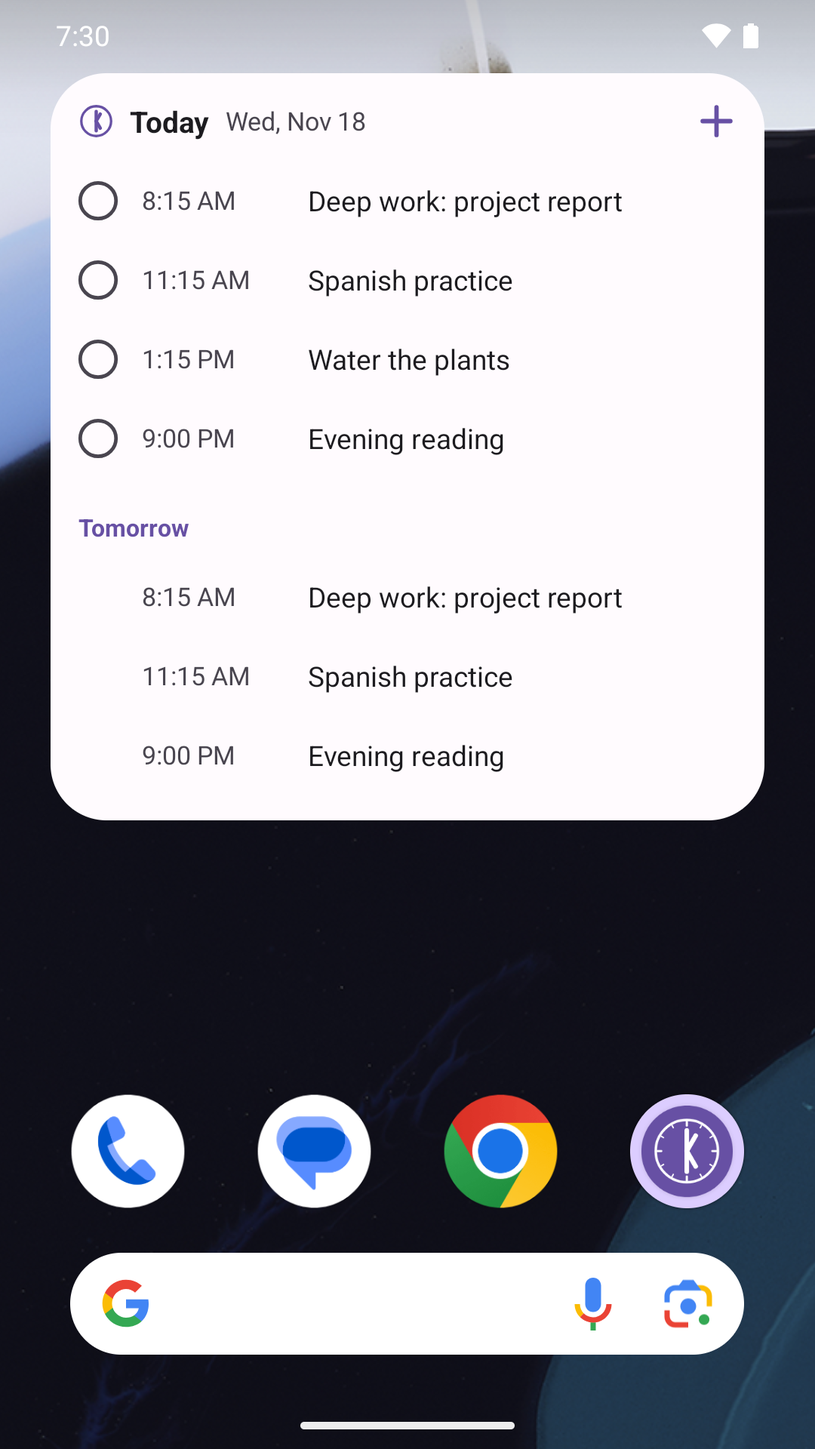
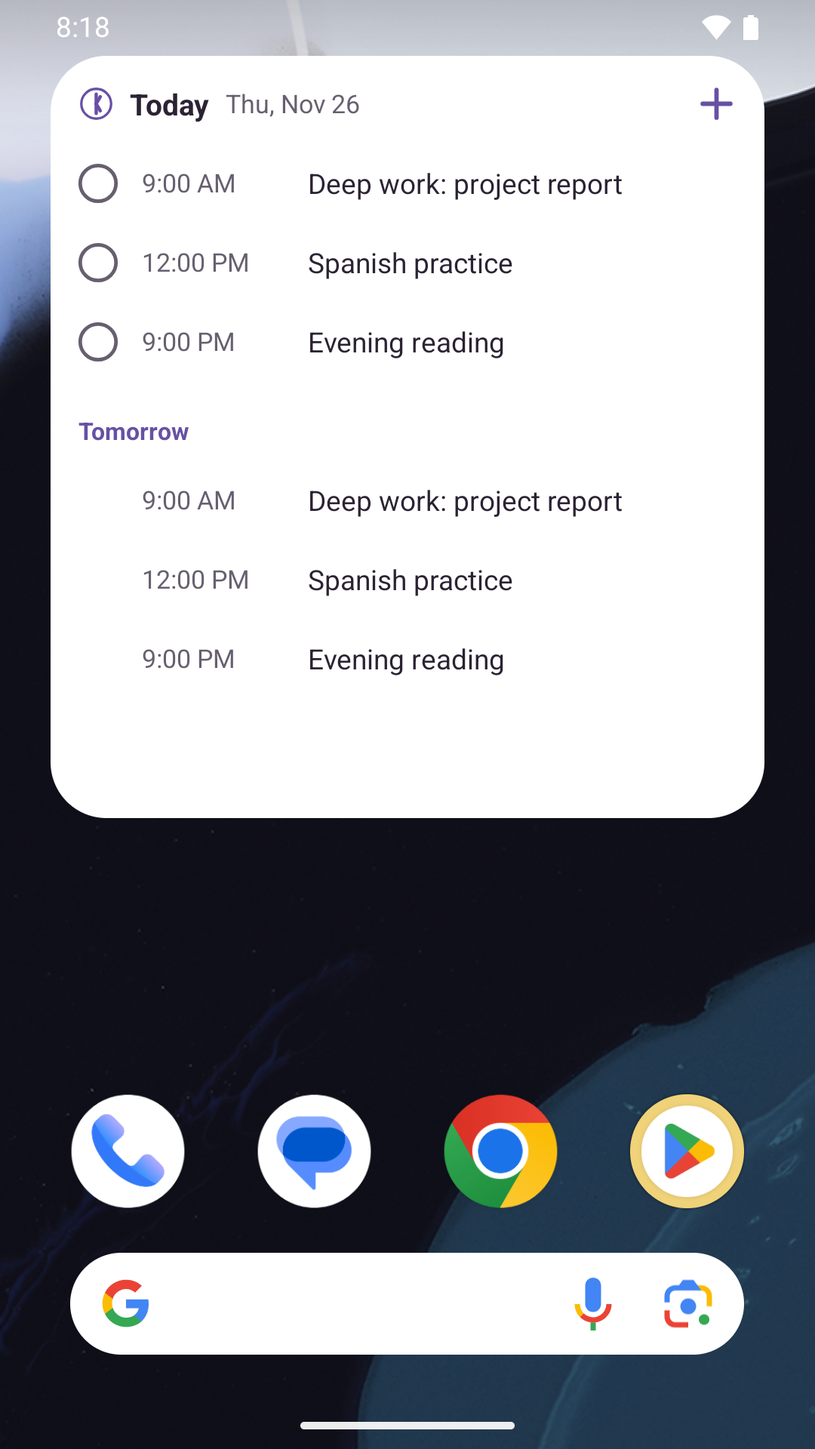
The stores' screenshots with the new look, in English, French and Spanish; the Microsoft Store's package declares Spanish
Google Play's eight phone pictures and the Microsoft Store's seven desktop ones, retaken for 1.3.0 and taken for
the first time in Spanish: 45 pictures. Three languages, not four: neither store has Kreyòl in its list.

- Play's set gains the question "How should reminders reach you?" (this version's sounds) and loses the todo's own
  page, which the Microsoft set keeps. Its reminder is caught as it rings over Home, with its buttons.
- Home shows a day with one todo done and the focus session is six minutes in, so both rings show progress.
- The Microsoft Store's Settings picture shows the four languages and the sounds.
- The Store's package names Spanish (es-419, as Play's listing does) beside English and French; a test holds the
  three, and that Kreyòl stays out (a code outside the Store's list can fail certification).
- How the pictures are taken, in the evening too, is in the two store READMEs; the owner's steps to upload them are
  in OWNER-CHECKLIST → v1.3.0, with the second test's result (deployed and tested by the owner on 2026-11-25).

diff --git a/tools/release/test_msix.py b/tools/release/test_msix.py
@@ -28,6 +28,11 @@ class MsixTests(unittest.TestCase):
         # The startup task starts the launcher that passes --background.
         self.assertIn('Executable="KadansBackground.exe"', text)
 
+    def test_the_package_names_the_languages_the_store_lists_it_in(self):
+        resources = xml.dom.minidom.parseString(msix.manifest("1.1.0")).getElementsByTagName("Resource")
+        # English first (the default); never "ht": the Store's list has no Kreyòl, and refuses a code outside it.
+        self.assertEqual(["en-us", "fr-fr", "es-419"], [r.getAttribute("Language") for r in resources])
+
     def test_every_logo_the_manifest_names_is_drawn(self):
         text = msix.manifest("1.1.0")
         self.assertEqual(["Square150x150Logo", "Square44x44Logo", "StoreLogo"], msix.named_logos(text))

diff --git a/docs/OWNER-CHECKLIST.md b/docs/OWNER-CHECKLIST.md
@@ -314,8 +314,9 @@ Both:
 - [ ] Play Console, once the version with Spanish is on the track (not before: the listing would promise a language
       the app does not have): Grow → Store presence → Main store listing → Manage translations → add **Spanish
       (Latin America) – es-419**, with the title, the short and the full description of `store/play/es-419/`; and
-      paste the English and French full descriptions again (their last lines name four languages). No Spanish
-      screenshots yet: Play shows the English ones. That release's notes need a Spanish "What's new" too.
+      paste the English and French full descriptions again (their last lines name four languages). Its eight
+      screenshots are in `store/play/es-419/images/phoneScreenshots/` (taken 2026-11-25). That release's notes need
+      a Spanish "What's new" too (`store/play/es-419/changelogs/5.txt`).
 
 ## The new look (2026-11-24)
 
@@ -335,8 +336,8 @@ size and at a computer's; nobody has looked at it on your computer or on a real 
       home-screen widget, whose colours changed with the app's (I did not see it on a home screen).
 - [ ] Windows: the same look at the installed app when the next version is out, the tray's menu included (it takes
       the app's colours). The fonts are the app's own files, so they should be the same as on Linux; nobody checked.
-- [ ] The stores' screenshots still show the old look. When you are happy with the new one, tell me and I retake
-      them (Play in four languages, the Microsoft Store's seven) for the next version's release.
+- [x] (2026-11-25) The stores' screenshots show the new look: Play's eight and the Microsoft Store's seven, each in
+      English, French and Spanish (neither store lists Kreyòl). Uploading them is in v1.3.0's entry, below.
 
 ## Sounds (2026-11-24)
 
@@ -379,14 +380,17 @@ What you chose: the marimba, reminders like an alarm (asked once, with a switch)
          nginx made again for the `/es/` addresses). The fixes change the server too (a session's notices go to the
          phone as data): **merge this version's pull request and deploy again before testing code 5**, or its phase
          notices are still the ones the system shows, which ring once and not at all at "back to focus".
+         Done 2026-11-25: merged, and deployed by you.
       2. **Android, by Play's internal testing track**: the bundle built from this version's branch with
          `-Pkadans.versionCode=5` (DEPLOYMENT → Building the apps). Test and release → Testing → Internal testing →
          Create new release → upload it → release notes from `store/play/<language>/changelogs/5.txt` (English and
          French; Spanish once its listing exists: Spanish, above) → Save → Review → Start rollout. On the phone:
          uninstall any copy installed with adb first (it is signed with another key and Play will not replace it),
          then install from Play. Not with adb for this one: on 2026-11-24 a debug build could not sign in with
-         Google (Google Sign-In, above), and Play's copy can.
-      3. **What to hear and see**: Sounds and The new look, above, and what the first test found:
+         Google (Google Sign-In, above), and Play's copy can. Done 2026-11-25: code 5 is on the internal track.
+      3. **What to hear and see**: Sounds and The new look, above, and what the first test found. Tested by you
+         on 2026-11-25, from Play's internal track on your phone: "I'm very satisfied with the tests" (said of the
+         whole; the points below were not gone through one by one with me, so their boxes stay as they were):
          - [ ] Settings → Reminder sound: the button reads "Change the sound", whole.
          - [ ] With "Keep ringing until I answer" on, a hands-free session: each phase change rings, the first break
                to the second focus too (with "Do Not Disturb during focus" on), and goes on ringing until the
@@ -400,12 +404,29 @@ What you chose: the marimba, reminders like an alarm (asked once, with a switch)
                the push, a moment later.
          - [x] (decided 2026-11-25: "Yes, a phase end should ring") With the phone's **own** Do Not Disturb on, a
                phase's end rings where alarms are let through (the default), as a timer's would.
-      4. **Satisfied**: `git tag v1.3.0 && git push origin v1.3.0` on the merged `main`
+      4. **Satisfied** (2026-11-25, and "You can tag"): `git tag v1.3.0 && git push origin v1.3.0` on the merged
+         `main`, **once the store pictures' pull request is merged** (the Store's package declares Spanish from
+         it; tagged before, 1.3.0's `.msix` would not)
          (DEPLOYMENT → Releasing the desktop app: the Linux and Windows installers, about 20 minutes), a new Partner
          Center submission with that release's `.msix`, and the same Play bundle **promoted** to the closed test
          (never uploaded again: Play takes a version code once). A fix found while testing is a new bundle with
          the next code.
-      5. **After it**: the stores' screenshots with the new look, and the Spanish listing on Play.
+      5. **The stores' pictures and Spanish** (the pictures were retaken on 2026-11-25, with the new look; upload
+         them with this version, not before: they show what 1.3.0 looks like). Neither store has Kreyòl in its list
+         of languages, so each gets three sets: English, French, Spanish.
+         - [ ] Play Console → Grow → Store presence → Main store listing: replace the eight phone screenshots with
+               `store/play/en-US/images/phoneScreenshots/` (delete the old ones first, upload in the files' order);
+               Manage translations → French: the same from `fr-FR`; → add **Spanish (Latin America) – es-419**
+               (Spanish, above: its texts and its eight from `es-419`). The fourth picture is new: the question "How
+               should reminders reach you?". The todo's own page left the set to make room for it; tell me if you
+               would rather drop another.
+         - [ ] Partner Center → the new submission → Store listings: English and French get the seven of
+               `store/microsoft/en-US/screenshots/` and `fr-FR`; **Spanish (Latin America)** is offered once the
+               submission's package is 1.3.0's (its package is the first to declare Spanish): give it the texts of
+               `store/play/es-419/` and the seven of `store/microsoft/es-419/screenshots/`. If Partner Center does
+               not offer Spanish after the package is uploaded, tell me what its Store listings page shows.
+         - [ ] Look at the pictures before uploading: I chose what each shows, and a Spanish speaker has not read
+               the Spanish ones.
 - [ ] v1.2.0 (prepared 2026-11-17): November's six integrations (the calendar link, the home-screen widget, Do Not
       Disturb during focus, Share to Kadans, the phone's calendar, statements in and data out) and the sealed session.
       Test it before tagging, in this order:
@@ -442,10 +463,10 @@ What you chose: the marimba, reminders like an alarm (asked once, with a switch)
       `kadans-microsoft-store-x64.msix` from the GitHub Release (DEPLOYMENT → Releasing the desktop app); before the
       first release, from the release workflow's run on a pull request (Actions → the run → Artifacts → `windows`).
       Partner Center asks why the package needs `runFullTrust`: "Kadans is a desktop app (Java, Compose) packaged as
-      MSIX; it runs its own desktop executable." The package declares English and French: give the Store listing
-      both (the texts of `store/play/en-US` and `fr-FR` fit, and the desktop screenshots are in
-      `store/microsoft/<language>/screenshots/`; Store logos → 1:1 App tile icon is `store/microsoft/app-tile-icon.png`,
-      the same for both: store/microsoft/README.md). The Store installs and updates it, signed by Microsoft,
+      MSIX; it runs its own desktop executable." The package declares English and French, and from 1.3.0 Spanish
+      (Latin America): give the Store listing each (the texts of `store/play/en-US`, `fr-FR` and `es-419` fit, and
+      the desktop screenshots are in `store/microsoft/<language>/screenshots/`; Store logos → 1:1 App tile icon is
+      `store/microsoft/app-tile-icon.png`, the same for all: store/microsoft/README.md). The Store has no Kreyòl. The Store installs and updates it, signed by Microsoft,
       so Windows shows no unknown-publisher warning; the `.msi` from the site still does, until it is signed with a
       code-signing certificate (optional).
 - [ ] Google Play / App Store developer accounts when it is time to ship
@@ -453,11 +474,11 @@ What you chose: the marimba, reminders like an alarm (asked once, with a switch)
       default, French under "Manage translations", Kreyòl when Play offers it: store/play/README.md), the app icon
       is `branding/play-store-icon.png` (512 x 512, the logo: branding/README.md) and the feature graphic
       `branding/play-feature-graphic.png` (1024 x 500, no text: Play writes the name beside it). Phone screenshots:
-      `store/play/en-US/images/phoneScreenshots/` for the main listing and `store/play/fr-FR/images/phoneScreenshots/`
-      for the French translation, eight each, uploaded in their order (a language without its own set shows the
-      English one). To take a set again (two to eight): register a demo account per language in the app, fill it
-      with
-      `python3 tools/demo/seed_demo.py <username> --language en|fr|ht` (it refuses an account with data), take the
+      `store/play/en-US/images/phoneScreenshots/` for the main listing, `store/play/fr-FR/images/phoneScreenshots/`
+      for the French translation and `store/play/es-419/images/phoneScreenshots/` for the Spanish one, eight each,
+      uploaded in their order (a language without its own set shows the English one). To take a set again (two to
+      eight): register a demo account per language in the app, fill it with
+      `python3 tools/demo/seed_demo.py <username> --language en|fr|ht|es` (it refuses an account with data), take the
       screenshots on the phone within a few hours (today's todos are on Home), then
       `python3 tools/store/play.py crop <files>` (Play refuses taller than 2:1; a 1080 x 2340 capture is). Run the
       script on `googleTest` too: Google's reviewers then find a lived-in account.

diff --git a/store/play/README.md b/store/play/README.md
@@ -12,9 +12,8 @@ like the rest. One folder per language, in fastlane's layout (`fastlane supply` 
 
 `en-US` is the default language; `fr-FR` and `es-419` (Spanish as Latin America writes it, Play's "Spanish (Latin
 America)") are added under "Manage translations". `ht` (Kreyòl) is ready for when Play Console offers Haitian Creole
-in its list; until then Play shows Kreyòl speakers the French or English listing. `es-419` has no changelog of the
-uploads made before the app spoke Spanish, and no screenshots yet: Play shows the English ones until a set is taken
-(`seed_demo.py --language es`).
+in its list (it did not on 2026-11-25); until then Play shows Kreyòl speakers the French or English listing, so `ht`
+has its texts and no screenshots. `es-419` has no changelog of the uploads made before the app spoke Spanish.
 
 ```bash
 python3 tools/store/play.py check                       # every text within the limits (CI runs it)
@@ -23,20 +22,34 @@ python3 tools/store/play.py crop ~/Pictures/Screenshot*.png   # screenshots trim
 
 The graphics: the icon `branding/play-store-icon.png` (512 x 512) and the feature graphic
 `branding/play-feature-graphic.png` (1024 x 500), both drawn by `branding/generate.py`. The screenshots (two to eight,
-phone, portrait) are in `<language>/images/phoneScreenshots/`, in the listing's order (fastlane sorts by name); Play
-shows a language without its own the default language's. They are taken in a demo account filled by
-`tools/demo/seed_demo.py` (its time zone chosen so today's todos are still ahead), on a phone or on the emulator
+phone, portrait) are in `<language>/images/phoneScreenshots/`, in the listing's order (fastlane sorts by name), one
+set for each language Play lists: English, French, Spanish. They are taken in a demo account filled by
+`tools/demo/seed_demo.py` (English and Spanish on a 12-hour clock, French on a 24-hour one), on the emulator
 (`adb shell wm size 1080x1920`, `wm density 420`, the status bar's demo mode for a clean clock), then passed through
 `play.py crop`: within 2:1 and 24-bit PNG without transparency, as Play wants. Retake them when a screen in them
 changes.
 
-The eight, as of 1.2: Home, the widget on a home screen, a reminder ringing with its buttons, a todo with its cycle,
-a focus session, the calendar, the budget month, its limits with "Import a statement". How the less obvious ones are
-made on the emulator: started with `-timezone America/Port-au-Prince` so the demo account's day is the phone's; the
-widget placed from Settings → "Add to my home screen", then made taller by its handles (a long press on it) so that
-it lists the day and tomorrow; the reminder from a one-time todo with a cycle created a minute or two ahead through
-the API while the app is open, the shade pulled down when it rings (`cmd statusbar expand-notifications`), the
-notification expanded, the emulator's own notices swiped away, and the demo clock set to the todo's time.
+The eight, as of 1.3 (2026-11-25, the new look): Home, the widget on a home screen, a reminder ringing with its
+buttons, the question "How should reminders reach you?" (like an alarm, like a notification), a focus session, the
+calendar, the budget month, its limits with the recurring salary and "Import a statement". The todo's own page left
+the set to make room for the sounds; the Microsoft Store's set has it. How they are made on the emulator:
+
+- **The day.** Home wants today's todos still ahead, and the script puts the first one 45 minutes from now. Taken in
+  the evening, the account and the phone are given a time zone where the day is starting (`seed_demo.py --time-zone
+  Asia/Dhaka`, the emulator started with `-timezone Asia/Dhaka`): nothing in the eight shows the zone. An account is
+  made and filled just before its pictures, one language at a time, each on an app wiped with `pm clear` (the
+  question about sounds is asked once per phone). One of the day's todos is marked done through the API, so the
+  ring on Home shows progress.
+- **The focus session** is six minutes in when it is taken (a quarter of the ring): started first, the calendar and
+  the budget are taken while it runs, then the todo's "Open focus session" leads back to it.
+- **The question about sounds** comes by itself the first time Home is seen again after a todo was opened.
+- **The widget** is placed from Settings → "Add to my home screen", then made taller by its handles (a long press on
+  it) so that it lists the day and tomorrow. It stays on the launcher from one language to the next and takes the
+  account's language.
+- **The reminder** is a one-time todo with a cycle created a minute or two ahead through the API while the app is on
+  Home, caught a second after it rings, as Android shows it over the app. The word beside its title ("now") is
+  Android's own: the emulator's system language is set to the listing's (`settings put system system_locales
+  fr-FR`, `es-US` for Spanish, then a restart), and the status bar's demo clock to the todo's time.
 
 The texts state what the app does today; change them with the app (and the website, `site/texts.py`, says the same
 things). The price and the trial follow OWNER-CHECKLIST → Subscriptions.

diff --git a/docs/ROADMAP.md b/docs/ROADMAP.md
@@ -1076,8 +1076,9 @@ installing on real devices second, hosting last.
       notifications' buttons in Spanish (their words are the catalog's), Windows, the iPhone.
       - [ ] By the owner: the points in OWNER-CHECKLIST → Spanish (a Spanish speaker's reading, Play's listing once
         the version is out, the website's deploy with nginx).
-      - [ ] With the new look's screenshots: a Spanish set for Play (`seed_demo.py --language es`), and Spanish in
-        the Microsoft Store's package and listing (its package declares English and French today).
+      - [x] With the new look's screenshots (2026-11-25, the item below): a Spanish set for Play, and Spanish in the
+        Microsoft Store's package (`es-419` in its manifest, from 1.3.0's package) with its seven pictures; the
+        listings themselves are the owner's to fill (OWNER-CHECKLIST → v1.3.0).
 
 - [x] The look (2026-11-24): the testers' second ask. Two directions on a design canvas, phone and computer; the
       owner took the warm one (ARCHITECTURE → "The look"): a cream page, white rounded cards, the logo's purple for
@@ -1100,8 +1101,7 @@ installing on real devices second, hosting last.
         server cannot be reached, with "Retry", instead of only leaving "Continue with Google" out.
       - [x] Sounds, from the same look and the testers: its own item, below.
       - [ ] By the owner: the rest of OWNER-CHECKLIST → The new look (a phone, the widget, Windows).
-      - [ ] After the owner's look: new screenshots for Play (four languages) and the Microsoft Store, taken with
-        `seed_demo.py` as the current ones were; the stores' pictures still show the old look.
+      - [x] New screenshots for both stores (2026-11-25): the item under version 1.3.0, below.
       - [ ] Not a new version by itself: it ships with Spanish in the next one.
 
 - [x] Sounds (2026-11-24): the testers forgot a running session and missed reminders, because nothing was
@@ -1134,8 +1134,30 @@ installing on real devices second, hosting last.
       OWNER-CHECKLIST → v1.3.0 has the order: the pull request, the deploy, the test, the tag, the stores. A debug build could
       not sign in with Google that day: the Android client for the debug key is gone from Google Cloud
       (OWNER-CHECKLIST → Google Sign-In), which concerns test builds only.
-      - [ ] After the release: the stores' screenshots with the new look (Play in four languages, the Microsoft
-        Store's seven) and Play's Spanish listing.
+      - [x] The stores' screenshots with the new look (2026-11-25, while the owner tested code 5): Play's eight
+        (`store/play/<language>/images/phoneScreenshots/`) and the Microsoft Store's seven
+        (`store/microsoft/<language>/screenshots/`), each in English, French and Spanish: 45 pictures. Three
+        languages, not four: neither store lists Kreyòl (read in both stores' own lists that day), so `ht` keeps its
+        texts for the day Play does. What changed beside the look:
+        - Play's set gains the question "How should reminders reach you?" (the sounds, this version's feature) and
+          loses the todo's own page, which the Microsoft set keeps; its reminder is caught as it rings over Home
+          with its buttons, instead of lying in the notification shade.
+        - Home shows a day with one todo done (the ring a quarter full) and the focus session is six minutes in,
+          where both were at their start.
+        - The Microsoft Store's Settings picture shows the four languages and the sounds, and its package declares
+          Spanish (`es-419`, Play's Latin American Spanish too) from 1.3.0: `tools/release/test_msix.py` holds the
+          three languages, and that `ht` stays out of the manifest (a code outside the Store's list can fail
+          certification).
+        - How they are taken in the evening (an account and a device in a time zone where the day is starting) is
+          in the two READMEs.
+        Seen while taking them, not changed (the bundle under test is built): French writes "Cycle: Classique" on
+        a todo's page where its typography wants "Cycle : Classique".
+        Not checked: a Spanish speaker's reading of the pictures; how Partner Center offers the Spanish listing
+        once the package declares it.
+      - [ ] By the owner: upload them with 1.3.0, and Play's Spanish listing (OWNER-CHECKLIST → v1.3.0, step 5).
+      - [x] The second test (2026-11-25): the owner deployed `main` with the fixes, updated to code 5 from Play's
+        internal track and tested on their phone: "I'm very satisfied with the tests". The tag `v1.3.0` follows the
+        merge of the store pictures' pull request, so that the Store's package declares Spanish.
 
 Nice-to-have hardening
 

diff --git a/store/microsoft/README.md b/store/microsoft/README.md
@@ -1,19 +1,29 @@
 # The Microsoft Store's listing
 
-What Partner Center → Kadans → a submission → Store listings asks for, per language (English, and French: the two
-languages the package declares, `clients/app/desktopApp/msix/AppxManifest.xml`):
+What Partner Center → Kadans → a submission → Store listings asks for, per language: English, French and Spanish
+(Latin America's, `es-419`, as on Google Play), the three languages the package declares
+(`clients/app/desktopApp/msix/AppxManifest.xml`; Spanish from the first package built after 2026-11-25, which is
+1.3.0's). The app speaks Kreyòl too, and the Store has no listing for it: `ht` is not in the Store's list of
+languages, and a package that names a code outside that list can fail certification (read on 2026-11-25:
+learn.microsoft.com, "App package requirements for MSIX app" → Supported languages). So the manifest leaves it out,
+and `tools/release/test_msix.py` holds the three.
 
 - **Description, What's new, Product features**: the Play texts fit (`store/play/<language>/full_description.txt`, the
-  changelog, the short description), since both stores sell the same app.
+  changelog, the short description), since both stores sell the same app; Spanish's are in `store/play/es-419/`.
 - **Screenshots** (Desktop): `<language>/screenshots/`, in the listing's order: Home, Home in dark mode, the calendar, a
-  todo with its focus cycle, a focus session, the budget month in dark mode, Settings in dark mode (three languages, 12 or
-  24 hours, appearance). 2732 x 1536 (a 1366 x 768 window drawn at twice the scale, so sharp on a large screen; the
-  Store asks for 1366 x 768 at least), 24-bit PNG.
+  todo with its focus cycle, a focus session, the budget month in dark mode, Settings in dark mode (the four languages,
+  12 or 24 hours, appearance, the time zone, sounds). 2732 x 1536 (a 1366 x 768 window drawn at twice the scale, so
+  sharp on a large screen; the Store asks for 1366 x 768 at least), 24-bit PNG.
 - **Store logos → 1:1 App tile icon**: `app-tile-icon.png` (300 x 300, the same in both languages), drawn by
   `branding/generate.py`. The Store shows it before the package's own StoreLogo. The 2:3 poster and 1:1 box art are
   for games (and Xbox), and Kadans is neither: leave them empty.
 
-The screenshots show the desktop app as it is, in a demo account filled by `tools/demo/seed_demo.py` (English on a 12-hour clock,
-French on a 24-hour one): the window's content alone, no system frame, which is what the Windows app shows too. They
-were drawn offscreen by Compose (`ImageComposeScene`, the real `App()` against a scratch server), so no desktop window
-or system theme was involved: retake them the same way when a screen in them changes.
+The screenshots show the desktop app as it is (retaken 2026-11-25 with the new look), in a demo account filled by
+`tools/demo/seed_demo.py` (English and Spanish on a 12-hour clock, French on a 24-hour one), one of the day's todos
+marked done so that Home's ring shows progress, the focus session six minutes in: the window's content alone, no
+system frame, which is what the Windows app shows too. They were drawn offscreen by Compose (`ImageComposeScene`, the
+real `App()` against a scratch server), so no desktop window or system theme was involved: retake them the same way
+when a screen in them changes. The app takes the computer's time zone, and the account follows it: taken in the
+evening, the Java process is given a zone where the day is starting (`-Duser.timezone=Asia/Dhaka`, the account
+seeded with the same), so that today's todos are still ahead; Settings, the one screen that names the zone, is drawn
+by a second run in the zone it should show.

diff --git a/docs/ARCHITECTURE.md b/docs/ARCHITECTURE.md
@@ -213,7 +213,7 @@ others are, and a missing one fails a build or a test. What a language touches:
 | Android | `res/values-<tag>`: what the system shows in the phone's language (the widget picker, the share sheet, the kind of the quiet mode) | compared by hand with `values-fr` |
 | Server | `RequestLanguage.Supported`; `ErrorTexts.Text` (a sentence for every entry); `LocalizedIdentityErrorDescriber`; `EmailTexts` and `DeletionTexts` (emails, the pages their links open); Tasks' `LocalizedTexts` (reminders, pomodoro notices); Budget's `BudgetTexts` (limit alerts) | `ErrorLocalizationTests`, `LocalizedIdentityErrorDescriberTests`; a `switch` without the language falls to English silently, so each has a test that names it |
 | Website | `site/texts.py`, `site/legal/*.<tag>.html`, and nginx's language map and its two address patterns (`deploy/nginx/site-https.conf.template`) | the generator fails on a missing key or legal page; `generate.py --check` in CI |
-| Stores | `store/play/<locale>/` (Spanish is `es-419`, Play's Latin American Spanish); the demo account's words for screenshots (`tools/demo/seed_demo.py`); the tags release notes may use (`tools/release/release.py`) | `tools/store/play.py check` |
+| Stores | `store/play/<locale>/` (Spanish is `es-419`, Play's Latin American Spanish) and its screenshots; the Microsoft Store's package, which names its languages (`desktopApp/msix/AppxManifest.xml`), and `store/microsoft/<locale>/screenshots/`; the demo account's words for screenshots (`tools/demo/seed_demo.py`); the tags release notes may use (`tools/release/release.py`). A store lists only the languages it knows: neither has Kreyòl (2026-11-25), so `ht` has Play's texts ready, no pictures, and no place in the package | `tools/store/play.py check`, `tools/release/test_msix.py` |
 
 A sentence is one whole phrase in each language, never words joined in code: French agrees with the unit ("Toutes
 les 2 semaines"), and Spanish puts a word where the others put a space, which is why a yearly rule's date goes through
